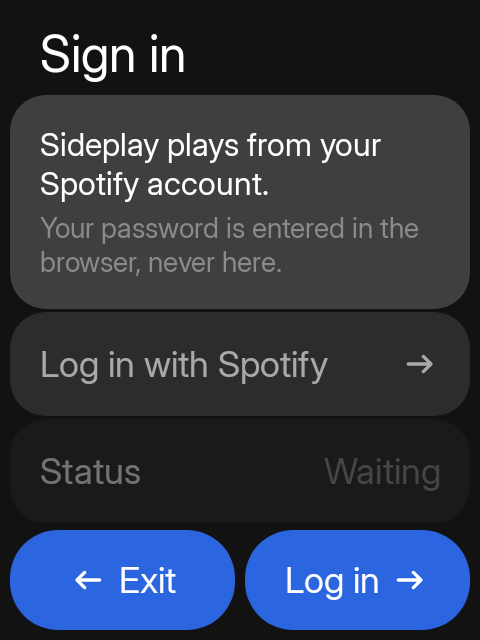
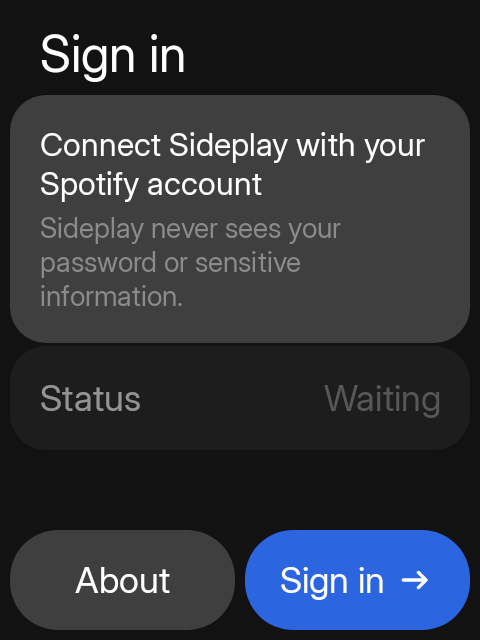
feat: sign releases locally and refine sign-in

diff --git a/app/src/main/java/io/github/manuelrtsch/sideplay/SpotifySettingsScreens.kt b/app/src/main/java/io/github/manuelrtsch/sideplay/SpotifySettingsScreens.kt
@@ -221,15 +221,18 @@ fun SpotifyAudioQualityScreen(
 @Composable
 fun SpotifySignInScreen(
     state: SpotifyUiState,
-    onBack: () -> Unit,
-    onLogIn: () -> Unit,
+    onAbout: () -> Unit,
+    onSignIn: () -> Unit,
     onDismissNotice: () -> Unit
 ) {
     val colors = SidekitTheme.colors
     val actions = withNotice(
         state.notice,
         onDismissNotice,
-        listOf(backToLauncher(onBack), SideAction.forward("login", "Log in", onLogIn))
+        listOf(
+            SideAction("about", "About", tone = ActionTone.Muted, motion = ActionMotion.Up, onClick = onAbout),
+            SideAction.forward("signIn", "Sign in", onSignIn)
+        )
     )
     SidekitScaffold(
         title = "Sign in",
@@ -240,28 +243,24 @@ fun SpotifySignInScreen(
             item(key = "explain") {
                 SidekitCard(Modifier.listFade(listState, 0).fillMaxWidth()) {
                     Column(verticalArrangement = Arrangement.spacedBy(8.dp)) {
-                        SidekitText("Sideplay plays from your Spotify account.", style = SidekitTheme.typography.bodySmall, maxLines = 2)
                         SidekitText(
-                            "Your password is entered in the browser, never here.",
+                            "Connect Sideplay with your Spotify account",
+                            style = SidekitTheme.typography.bodySmall,
+                            maxLines = Int.MAX_VALUE
+                        )
+                        SidekitText(
+                            "Sideplay never sees your password or sensitive information.",
                             style = SidekitTheme.typography.caption,
                             color = colors.surfaceA6,
-                            maxLines = 2
+                            maxLines = Int.MAX_VALUE
                         )
                     }
                 }
             }
-            item(key = "login") {
-                SideplayItem(
-                    "Log in with Spotify",
-                    Modifier.listFade(listState, 1),
-                    showLinkArrow = true,
-                    onClick = onLogIn
-                )
-            }
             item(key = "status") {
                 SideplayItem(
                     "Status",
-                    Modifier.listFade(listState, 2),
+                    Modifier.listFade(listState, 1),
                     secondary = when {
                         state.authPending -> "Waiting for browser"
                         state.signedIn -> "Connected"
@@ -274,5 +273,3 @@ fun SpotifySignInScreen(
         }
     }
 }
-
-private fun backToLauncher(onBack: () -> Unit) = SideAction.back("back", "Exit", onBack)

diff --git a/app/src/main/java/io/github/manuelrtsch/sideplay/SpotifyGraph.kt b/app/src/main/java/io/github/manuelrtsch/sideplay/SpotifyGraph.kt
@@ -31,6 +31,7 @@ import kotlinx.coroutines.flow.MutableStateFlow
 const val SIDE_PLAY_ROOT = "sideplay"
 private const val ROOT = SIDE_PLAY_ROOT
 const val SIDE_PLAY_START = "sideplay/home"
+const val SIDE_PLAY_SIGN_IN = "sideplay/sign-in"
 private const val HOME = SIDE_PLAY_START
 private val HISTORY = "$ROOT/history"
 private val LIBRARY = "$ROOT/library"
@@ -43,7 +44,7 @@ private val NOW_PLAYING = "$ROOT/now-playing"
 private val QUEUE = "$ROOT/queue"
 private val SETTINGS = "$ROOT/settings"
 private val AUDIO_QUALITY = "$ROOT/audio-quality"
-private val SIGN_IN = "$ROOT/sign-in"
+private val SIGN_IN = SIDE_PLAY_SIGN_IN
 private val APPEARANCE = "$ROOT/appearance"
 private val ABOUT = "$ROOT/about"
 private val ARTWORK = "$ROOT/artwork/{artRes}?url={url}&label={label}&ratio={ratio}"
@@ -121,8 +122,8 @@ private fun NavHostController.openTrack(
 }
 
 /** Registers the Sideplay screens. All screens share one account state holder. */
-fun NavGraphBuilder.sideplayGraph(nav: NavHostController) {
-    navigation(startDestination = HOME, route = ROOT) {
+fun NavGraphBuilder.sideplayGraph(nav: NavHostController, startDestination: String = HOME) {
+    navigation(startDestination = startDestination, route = ROOT) {
         composable(HOME) { entry ->
             val vm = entry.spotifyViewModel(nav)
             val state by vm.state.collectAsStateWithLifecycle()
@@ -434,7 +435,8 @@ fun NavGraphBuilder.sideplayGraph(nav: NavHostController) {
             SideplayAppearanceScreen(onBack = { nav.popBackStack() })
         }
         composable(ABOUT) {
-            SideplayAboutScreen(onBack = { nav.popBackStack() })
+            val backLabel = if (nav.previousBackStackEntry?.destination?.route == SIGN_IN) "Sign in" else "Settings"
+            SideplayAboutScreen(onBack = { nav.popBackStack() }, backLabel = backLabel)
         }
         composable(SIGN_IN) { entry ->
             val vm = entry.spotifyViewModel(nav)
@@ -449,8 +451,8 @@ fun NavGraphBuilder.sideplayGraph(nav: NavHostController) {
             }
             SpotifySignInScreen(
                 state,
-                onBack = { (nav.context as? Activity)?.finish() },
-                onLogIn = vm::signIn,
+                onAbout = { nav.navigate(ABOUT) },
+                onSignIn = vm::signIn,
                 onDismissNotice = vm::dismissNotice
             )
         }

diff --git a/app/src/main/java/io/github/manuelrtsch/sideplay/SideplayActivity.kt b/app/src/main/java/io/github/manuelrtsch/sideplay/SideplayActivity.kt
@@ -3,8 +3,11 @@ package io.github.manuelrtsch.sideplay
 import android.content.Intent
 import android.os.Bundle
 import androidx.compose.runtime.Composable
+import androidx.compose.runtime.remember
+import androidx.compose.ui.platform.LocalContext
 import androidx.navigation.compose.NavHost
 import androidx.navigation.compose.rememberNavController
+import io.github.manuelrtsch.sideplay.data.SpotifySessions
 import hrln.interactive.sidekit.design.input.Keypad
 import hrln.interactive.sidekit.sdk.SidekitStores
 import hrln.interactive.sidekit.sdk.app.SidekitActivity
@@ -51,10 +54,16 @@ class SideplayActivity : SidekitActivity() {
 
     @Composable
     override fun SidekitContent() {
+        val context = LocalContext.current
         val nav = rememberNavController()
+        // Pick the first screen before the NavHost composes, so a signed-out launch never draws
+        // Home for a frame and then replaces it with Sign in.
+        val start = remember(context) {
+            if (SpotifySessions.get(context).signedIn.value) SIDE_PLAY_START else SIDE_PLAY_SIGN_IN
+        }
         SideplayLinks.Follow(nav)
         NavHost(navController = nav, startDestination = SIDE_PLAY_ROOT) {
-            sideplayGraph(nav)
+            sideplayGraph(nav, startDestination = start)
         }
     }
 

diff --git a/app/src/main/java/io/github/manuelrtsch/sideplay/SideplayAboutScreen.kt b/app/src/main/java/io/github/manuelrtsch/sideplay/SideplayAboutScreen.kt
@@ -34,7 +34,7 @@ private val licences = listOf(
  * ships. Reached from Settings rather than crowding the settings list itself.
  */
 @Composable
-fun SideplayAboutScreen(onBack: () -> Unit) {
+fun SideplayAboutScreen(onBack: () -> Unit, backLabel: String = "Settings") {
     val context = LocalContext.current
     val packageInfo = remember(context) { context.packageManager.getPackageInfo(context.packageName, 0) }
     val versionName = packageInfo.versionName.orEmpty()
@@ -43,7 +43,7 @@ fun SideplayAboutScreen(onBack: () -> Unit) {
 
     SidekitScaffold(
         title = "About",
-        actions = spotifyBack("Settings", onBack)
+        actions = spotifyBack(backLabel, onBack)
     ) { padding ->
         SidekitList(padding, state = listState) {
             item(key = "version") {

diff --git a/app/src/test/java/io/github/manuelrtsch/sideplay/SideplayScreenshotTest.kt b/app/src/test/java/io/github/manuelrtsch/sideplay/SideplayScreenshotTest.kt
@@ -252,8 +252,8 @@ class SideplayScreenshotTest {
     @Test fun signIn() = shoot("sideplay_sign_in") {
         SpotifySignInScreen(
             SpotifyUiState(signedIn = false),
-            onBack = {},
-            onLogIn = {},
+            onAbout = {},
+            onSignIn = {},
             onDismissNotice = {}
         )
     }

diff --git a/README.md b/README.md
@@ -79,6 +79,20 @@ Sideplay falls back to the public Spotify Web API, which currently rejects Spoti
 client ID with HTTP 429. The UI then looks empty: no library, no search results. Release and
 device builds must include the native bridge.
 
+Release builds are signed with the dedicated Sideplay release key. Create a gitignored
+`keystore.properties` at the repository root:
+
+```properties
+storeFile=/home/manuel/.android-keys/sideplay-release.jks
+storePassword=…
+keyAlias=sideplay
+keyPassword=…
+```
+
+Without that file, `assembleRelease` produces an unsigned APK so CI can sign it separately. The
+release certificate digest is listed in Sidekit's `trusted_apps.xml`, which lets Sideplay read the
+host case colour. Never add a debug certificate there.
+
 Sideplay builds against the published `1.4.3` Sidekit SDK from GitHub Pages. To test
 against a local Sidekit checkout instead, set `SIDEKIT_PROJECT_DIR`:
 
